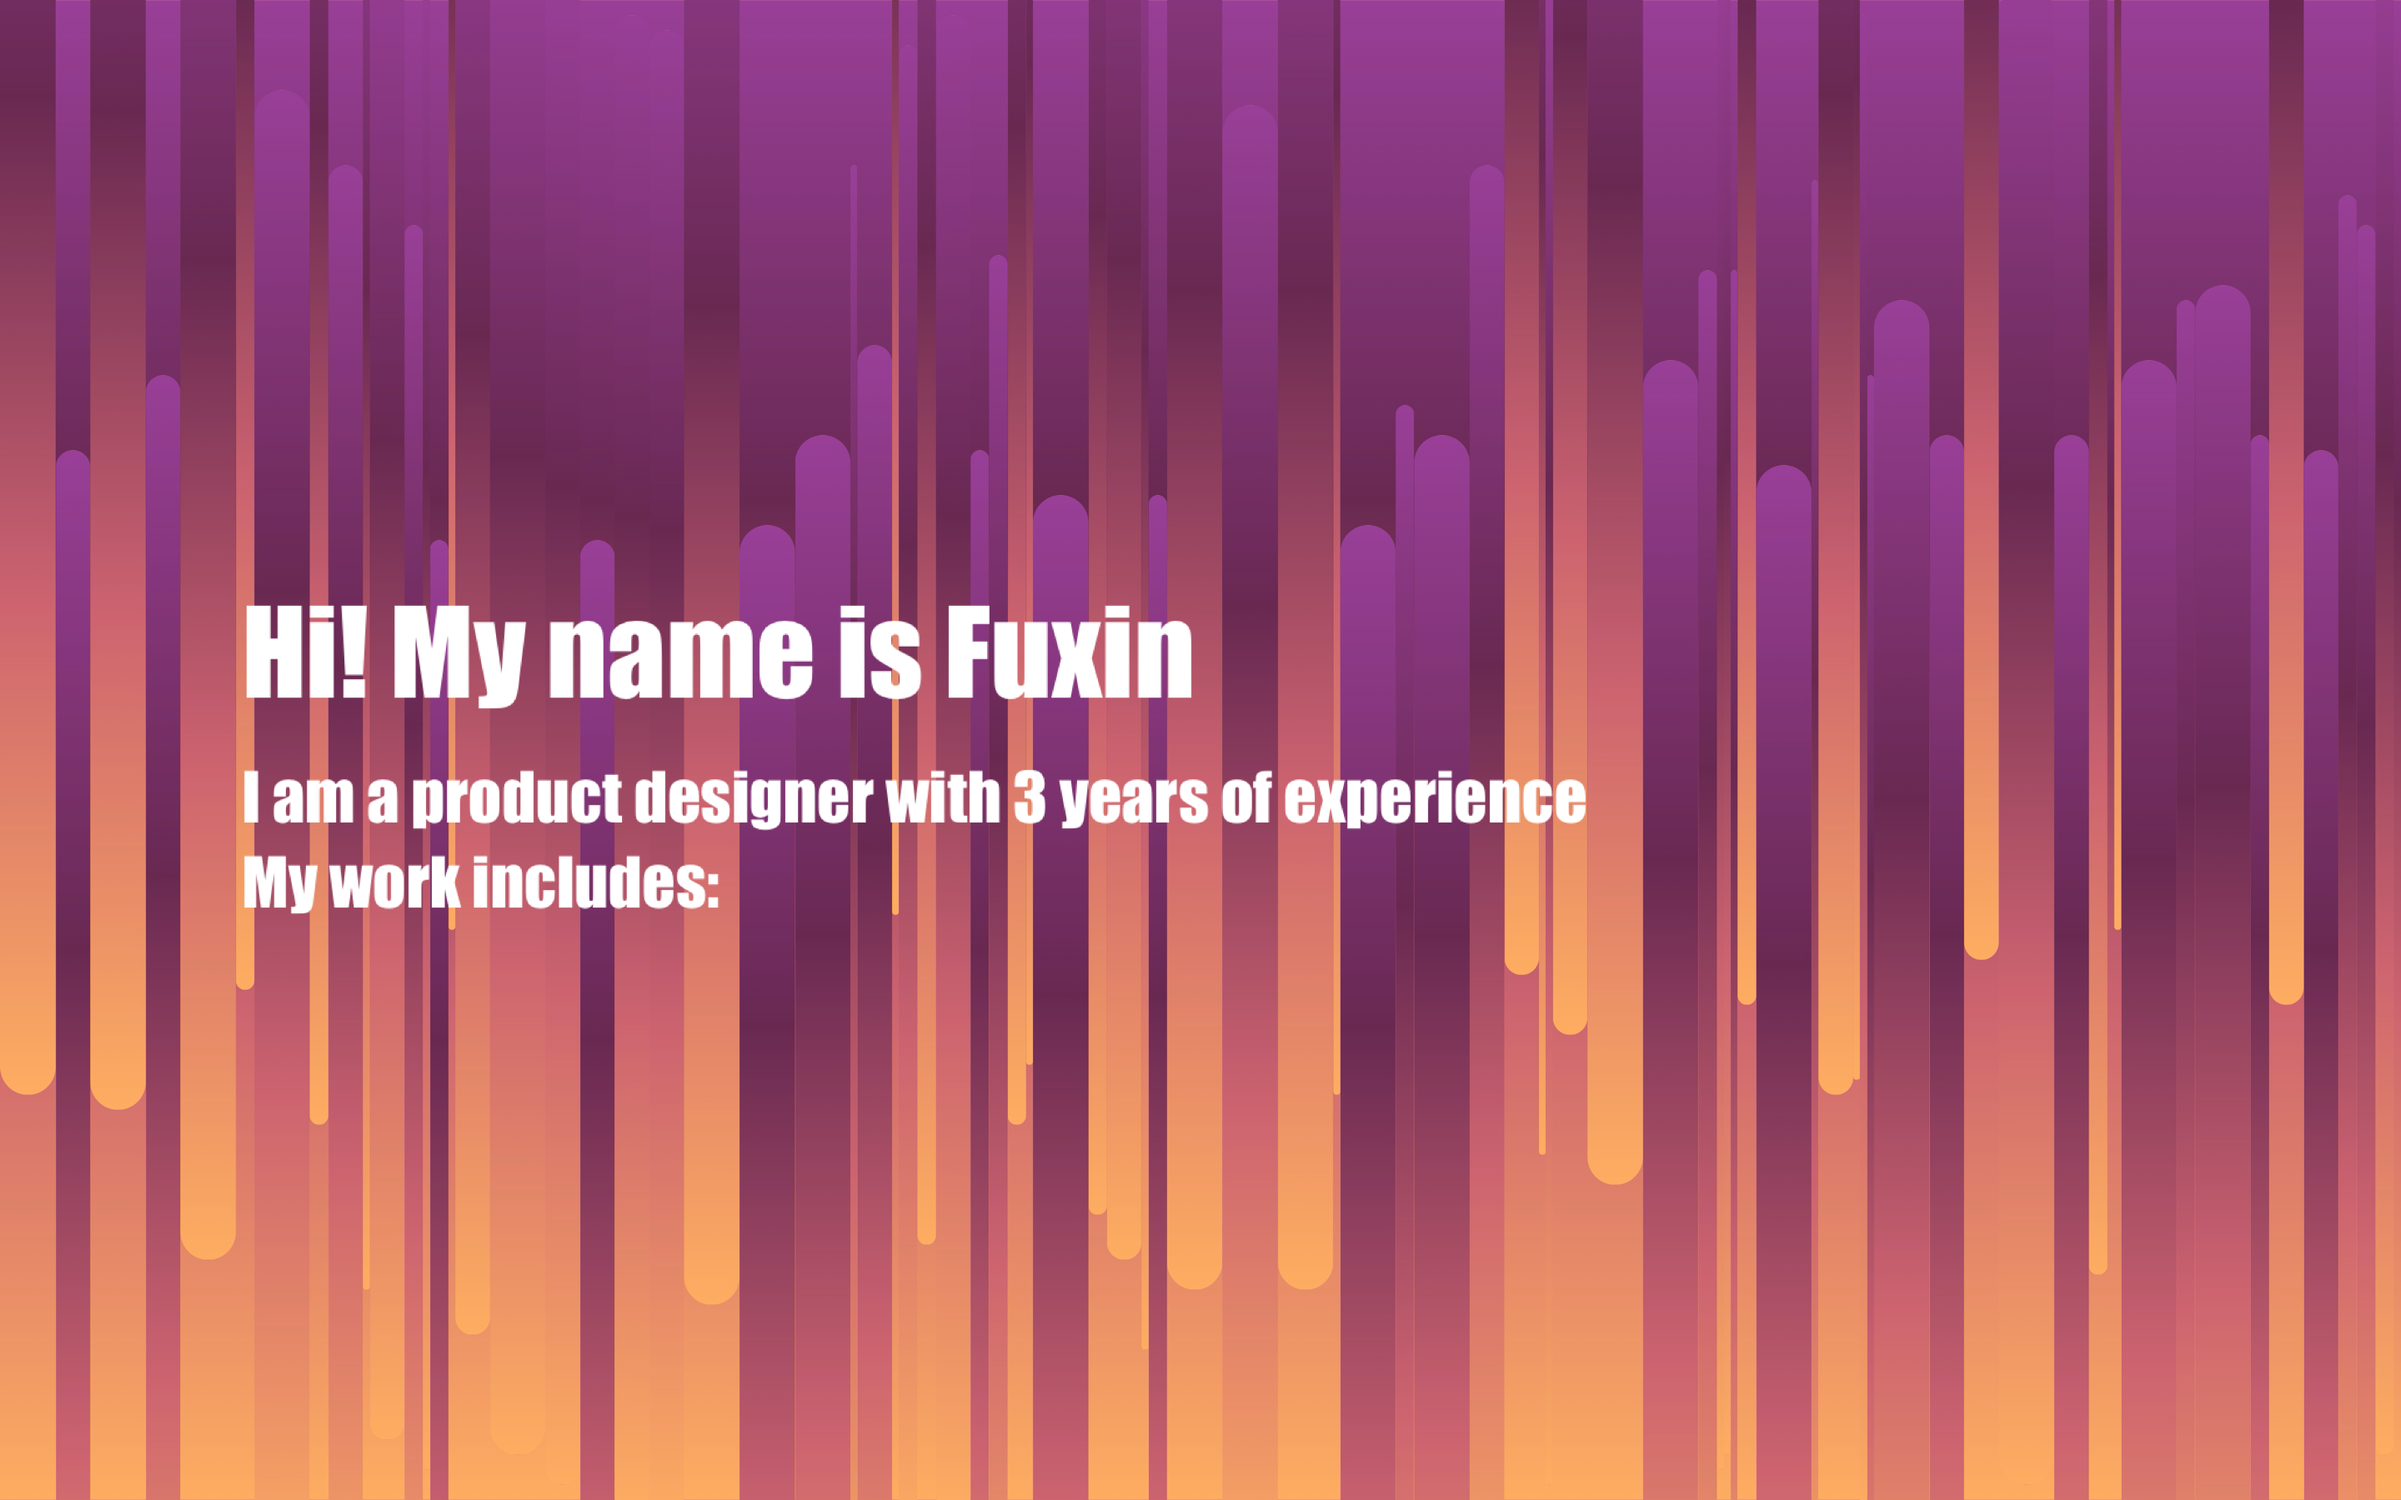
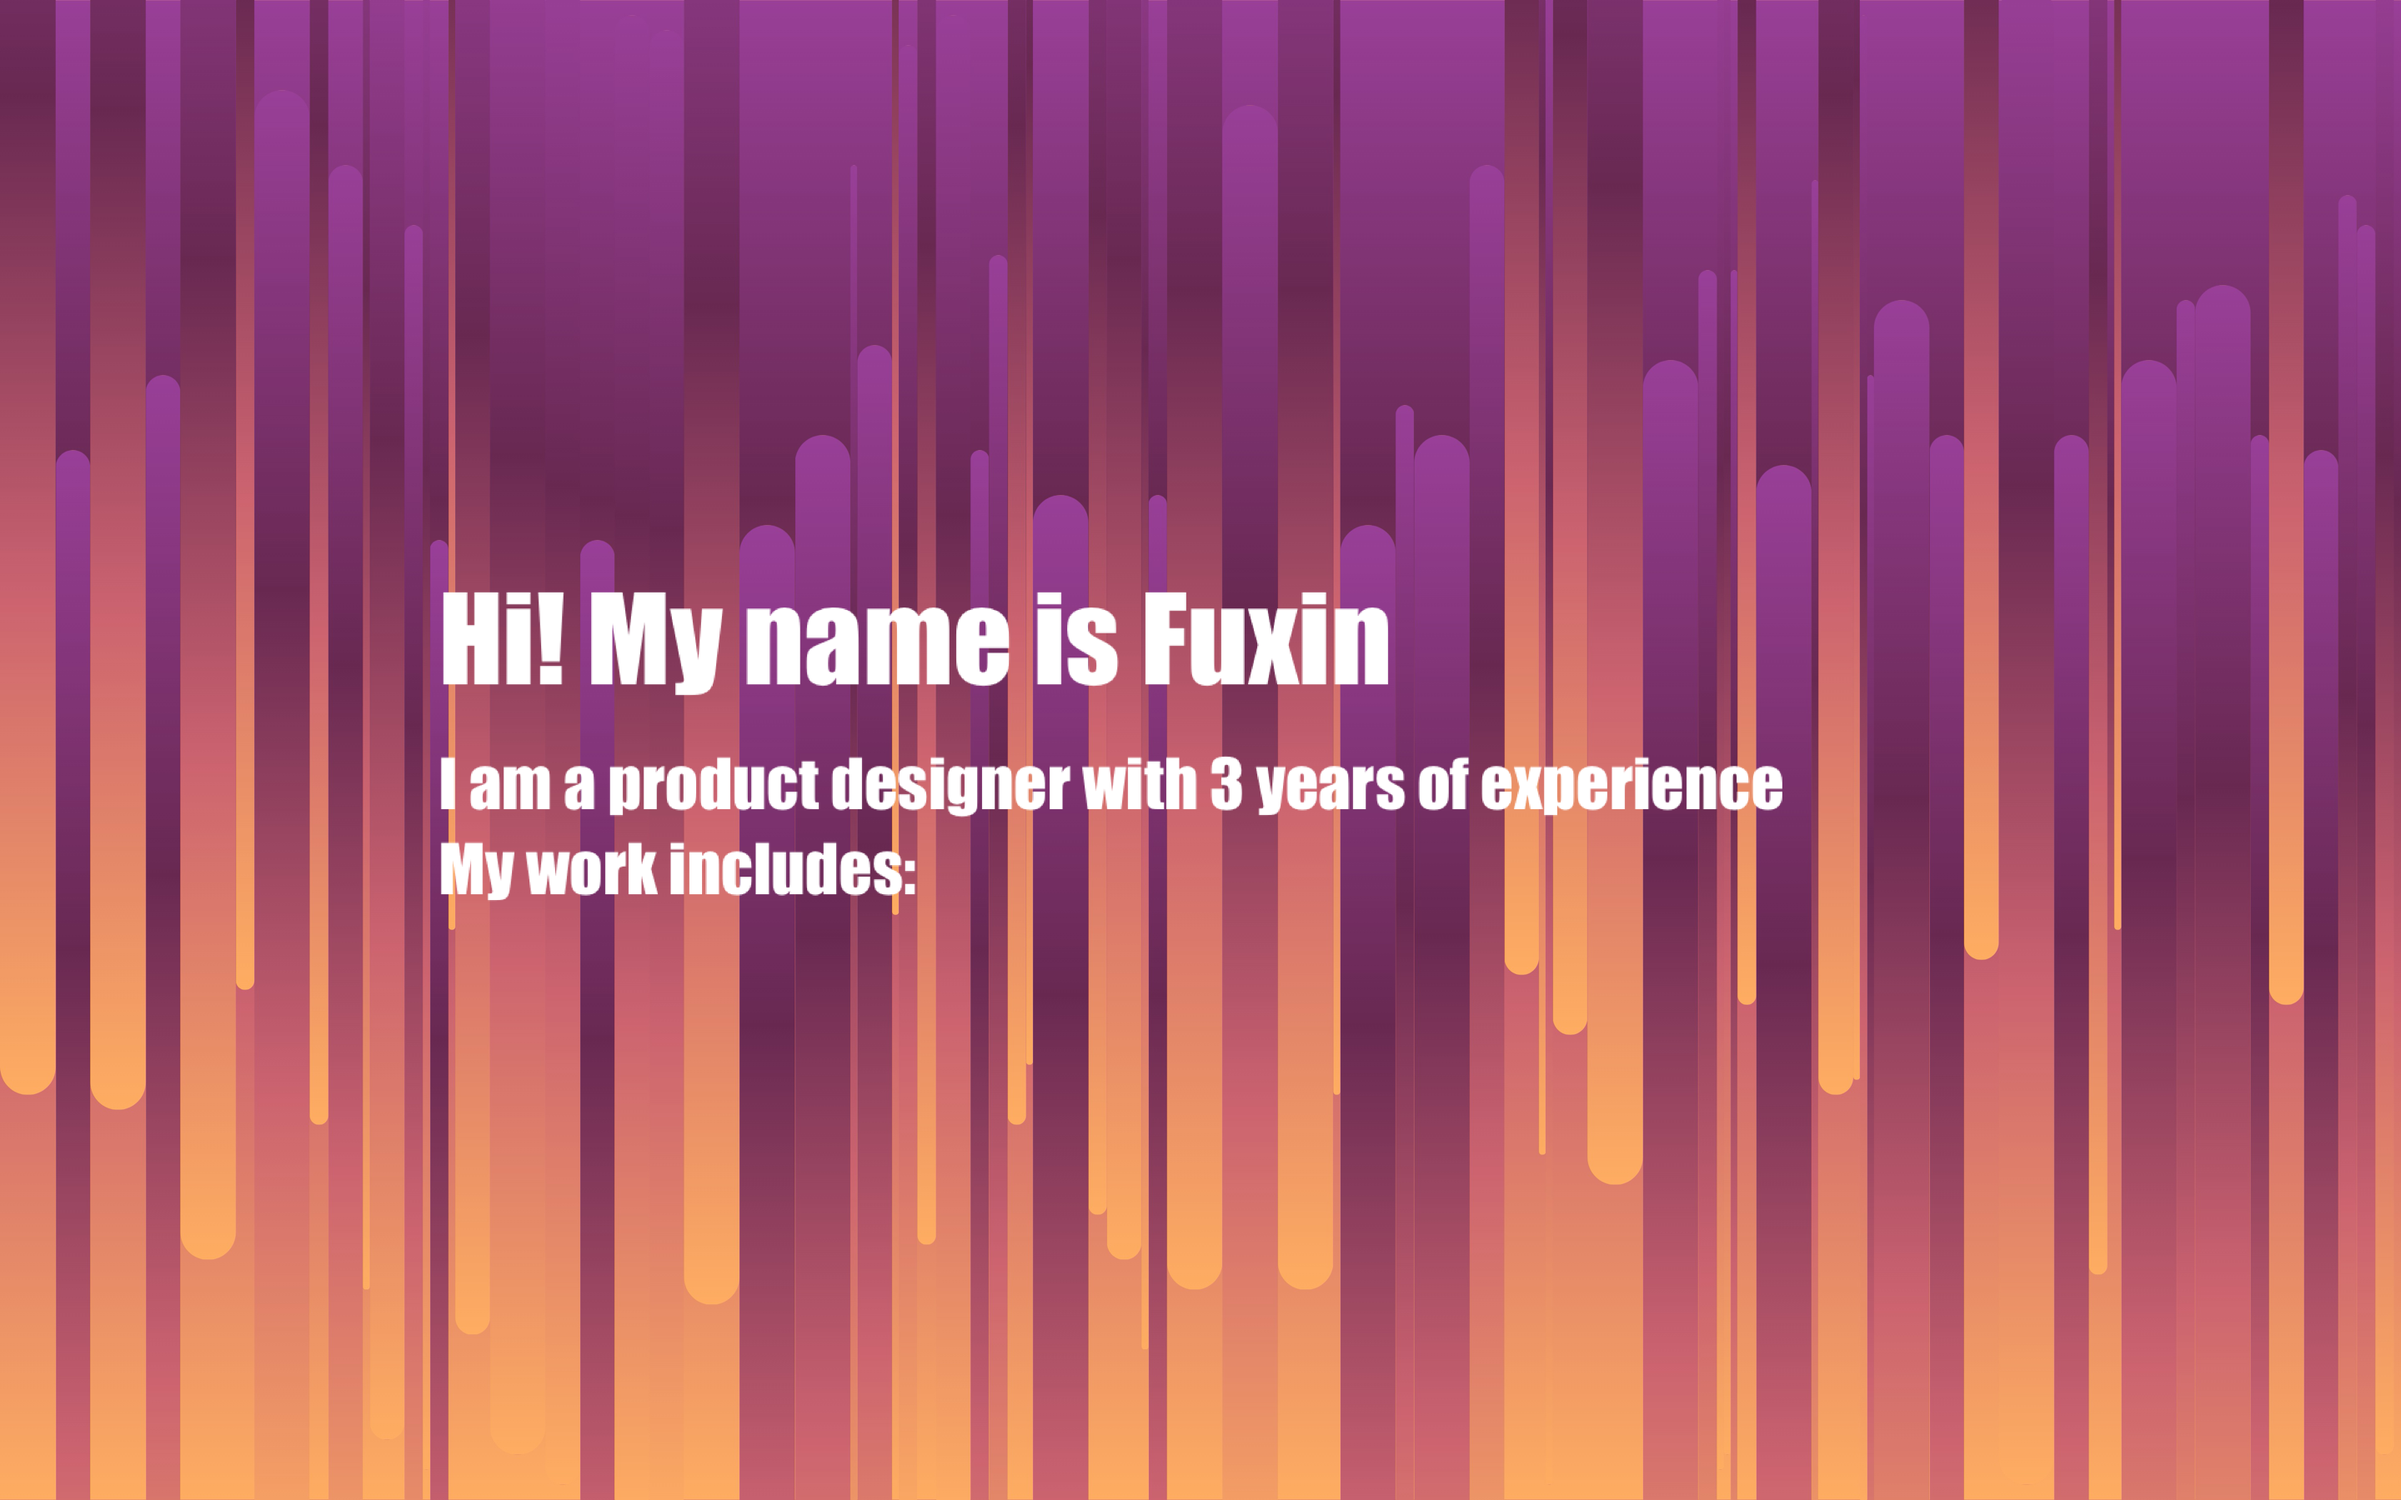
update

Changed region(s): [[0.0938, 0.4978, 0.75, 0.6222], [0.0938, 0.3733, 0.5938, 0.4667]]

diff --git a/index.html b/index.html
@@ -32,7 +32,7 @@
 <image src="img/wepark/space.png"></image>
 <image src="img/wepark/space.png"></image>
 <image src="img/wepark/space.png"></image>
-<image src="img/text-en.gif" align="left" style="max-height: 54px; padding-top: 10px; padding-left: 300px;"></image>
+<image src="img/text-en.gif" style="max-width: 30%;"></image>
 <image src="img/wepark/space.png"></image>
 <br>
 <br>

diff --git a/index_cn.html b/index_cn.html
@@ -30,7 +30,7 @@
 <image src="img/wepark/space.png"></image>
 <image src="img/wepark/space.png"></image>
 <image src="img/wepark/space.png"></image>
-<image src="img/text-cn.gif" align="left" style="max-height: 76px; padding-left: 248px; padding-top: 21px;"></image>
+<image src="img/text-cn.gif" style="max-width: 30%;"></image>
 <image src="img/wepark/space.png"></image>
 <br>
 <br>
